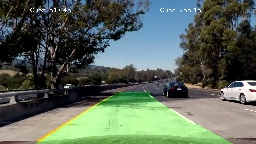
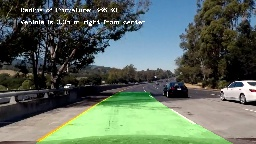
distance to center implemented

diff --git a/process_images.py b/process_images.py
@@ -102,24 +102,26 @@ for image_name in glob.glob('./test_images/test*.jpg'):
     cv2.imshow('img',bin_thres)
     cv2.waitKey(50)
 
-#Adentifying polynomial in test images
-print("Applying bin_threshold to test images from ./test_images/...")
+#Identifying polynomial in test images
+print("Identifying polynomial on test images from ./test_images/...")
 for image_name in glob.glob('./test_images/test*.jpg'):
     image = rgb_read(image_name)
-    bin_thres = pipeline(image, return_poly= True)
+    poly_rgb = pipeline(image, return_poly= True)
+
+    poly = cv2.cvtColor(poly_rgb, cv2.COLOR_RGB2BGR) 
 
     small = cv2.resize(cv2.imread(image_name),(256, 144))
-    small_p = cv2.resize(bin_thres,(256, 144))
+    small_p = cv2.resize(poly,(256, 144))
 
-    output_name = "./output_images/bin_thres/original_" + image_name.split('/')[-1]
+    output_name = "./output_images/poly/original_" + image_name.split('/')[-1]
     cv2.imwrite(output_name, small)
-    output_name = "./output_images/bin_thres/bin_" + image_name.split('/')[-1]
+    output_name = "./output_images/poly/poly_" + image_name.split('/')[-1]
     cv2.imwrite(output_name, small_p)
 
-    output_name = "./output_images/bin_thres/" + image_name.split('/')[-1]
-    cv2.imwrite(output_name, bin_thres)
+    output_name = "./output_images/poly/" + image_name.split('/')[-1]
+    cv2.imwrite(output_name, poly)
 
-    cv2.imshow('img',bin_thres)
+    cv2.imshow('img',poly)
     cv2.waitKey(50)
 
 
@@ -130,7 +132,7 @@ for image_name in glob.glob('./test_images/test*.jpg'):
     pipelined_rgb = pipeline(image)
 
     pipelined = cv2.cvtColor(pipelined_rgb, cv2.COLOR_RGB2BGR) 
-    small = cv2.resize(image,(256, 144))
+    small = cv2.resize(cv2.imread(image_name),(256, 144))
     small_p = cv2.resize(pipelined,(256, 144))
 
     output_name = "./output_images/pipelined/original_" + image_name.split('/')[-1]

diff --git a/pipeline.py b/pipeline.py
@@ -280,7 +280,7 @@ def find_lane(binary_warped):
     left_lane_base = left_fit[0]*max_y**2 + left_fit[1]*max_y + left_fit[2]
     right_lane_base = right_fit[0]*max_y**2 + right_fit[1]*max_y + right_fit[2]
     center_pix = (left_lane_base + right_lane_base) / 2
-    distance_to_center = (640-center_pix * xm_per_pix)
+    distance_to_center = (640-center_pix) * xm_per_pix
 
 
     # Calculate the new radii of curvature
@@ -326,7 +326,7 @@ def pprint_dist(num):
         side = "left"
     else:
         side = "right"
-    return "Vehicle is {:,.2f} m ".format(abs(num)) + side + "from center"
+    return "Vehicle is {:,.2f} m ".format(abs(num)) + side + " from center"
 
 def pipeline(img,
              return_bin_threshold = False,
